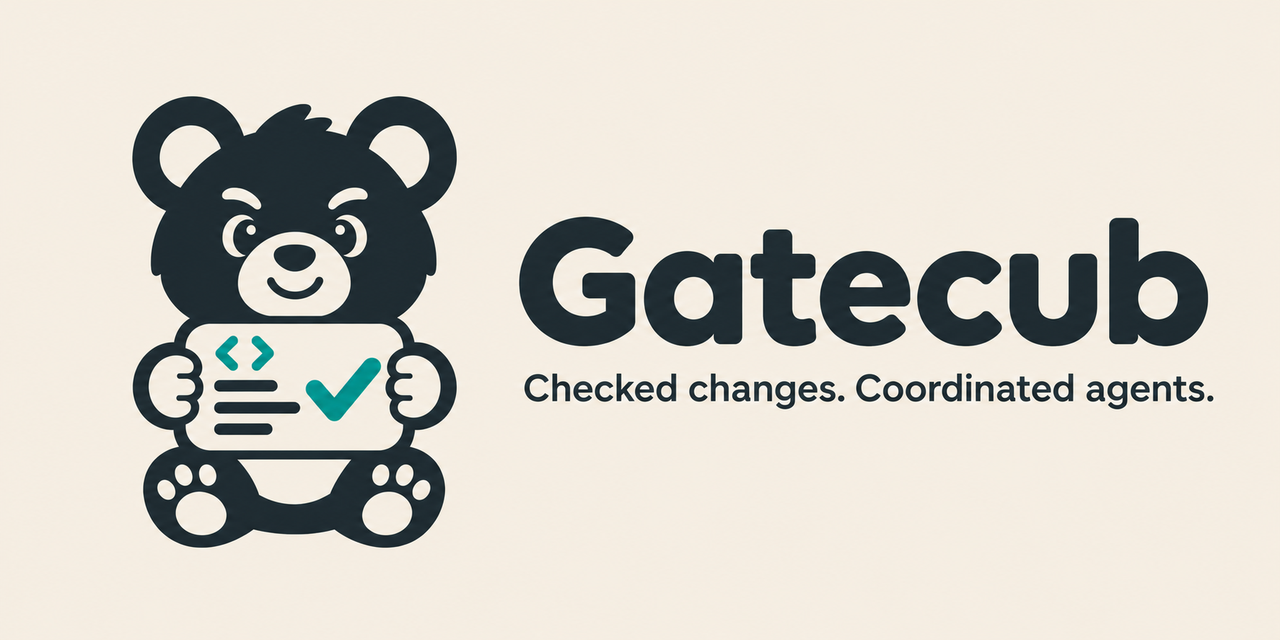
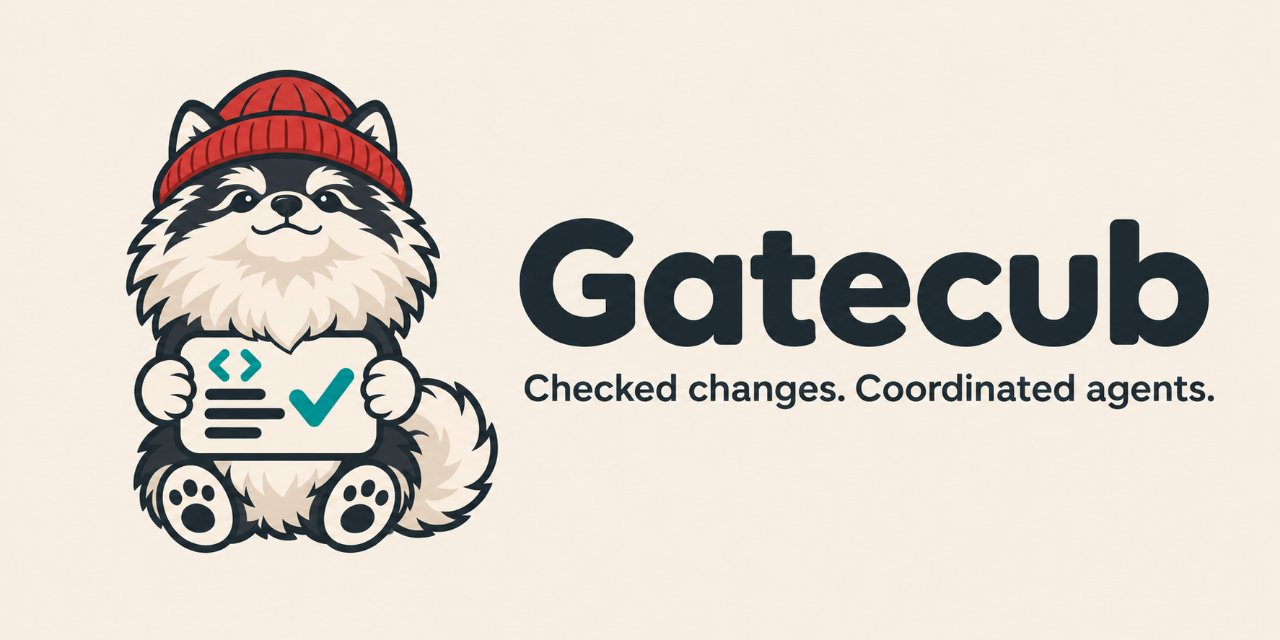
docs: use a Pomeranian mascot for Gatecub
Update the mascot, banner, alt text and brand provenance to the approved Pomeranian in a red knit beanie.

diff --git a/docs/brand/README.md b/docs/brand/README.md
@@ -1,74 +1,67 @@
 # Gatecub brand assets
 
-Gatecub is an alert, friendly bear cub holding a code-change card with a teal check. The mark represents checked changes and coordinated agents.
+Gatecub's mascot is a fluffy Pomeranian in a red knit beanie, holding a code-change card with a teal check. Its pointed ears, short dog muzzle, full neck ruff and curled tail make the dog recognizable; its calm, proud expression follows the user's reference.
 
 | Asset | Size | Background | Suggested use |
 | --- | --- | --- | --- |
-| [Mascot](gatecub-mascot.png) | 1254 × 1254; 726,960 bytes | Transparent RGBA | Avatar, documentation, project badge |
-| [Banner](gatecub-banner.png) | 1280 × 640; 607,726 bytes | Opaque warm cream | README and repository social preview |
+| [Mascot](gatecub-mascot.png) | 1254 × 1254; 923,432 bytes | Transparent RGBA | Avatar, documentation, project badge |
+| [Banner](gatecub-banner.png) | 1280 × 640; 586,883 bytes | Opaque warm cream | README and repository social preview |
 
-The banner reads **Gatecub** and **Checked changes. Coordinated agents.** Keep the original proportions and leave breathing room around the bear and text. Use the transparent mascot on a light surface with enough contrast for its charcoal outline. The banner supplies its own background.
+The banner reads **Gatecub** and **Checked changes. Coordinated agents.** Keep the original proportions and leave breathing room around the dog and text. Use the transparent mascot on a light surface with enough contrast for its charcoal outline. The banner supplies its own background.
 
 Suggested alt text:
 
-- Mascot: `Gatecub bear cub holding a code-change card with a teal check mark.`
-- Banner: `Gatecub. Checked changes. Coordinated agents. A bear cub holds a checked code-change card.`
+- Mascot: `Gatecub Pomeranian in a red knit beanie, holding a code-change card with a teal check mark.`
+- Banner: `Gatecub. Checked changes. Coordinated agents. A fluffy Pomeranian in a red beanie holds a checked code-change card.`
 
 ## Color direction
 
 | Color | Value | Role |
 | --- | --- | --- |
-| Charcoal | `#202A30` | Bear, outlines, wordmark and text |
-| Cream | `#F6F0E5` | Face, card, accents and banner background |
+| Charcoal | `#202A30` | Outlines, dark fur, eyes, nose, wordmark and text |
+| Cream | `#F6F0E5` | Light fur, paws, card and banner background |
 | Teal | `#169C92` | Check mark and code accent |
+| Red | `#C83D37` | Knit beanie, inspired by the user's reference |
 
-These are the design targets; the generated PNGs retain subtle shades and antialiased edges. Do not recolor or stretch the artwork. A check mark is part of the brand, not evidence that a particular change passed checks.
+These are the design targets; the generated PNGs retain subtle shades and antialiased edges. Keep the beanie as the red accent and the card check teal. Do not recolor or stretch the artwork.
 
 ## Creation and export
 
-Created on 2026-11-15 with the built-in `image_gen` tool, using a transparent generation for the mascot and the mascot as the banner's identity reference. The banner received one targeted flat-color edit with the same tool. No API fallback or hand-drawn replacement was used.
+Updated on 2026-11-15 with the built-in `image_gen` tool. The mascot was edited from the previous Gatecub mascot using the user's Pomeranian image as species and mood guidance. The matching banner was edited from the previous banner with the new Pomeranian mascot as its identity reference. All creative changes were made with `image_gen`; no API fallback or procedural drawing was used. The private input reference is not included in this repository.
 
-The mascot's generated 1254 × 1254 dimensions and alpha were preserved. The selected banner was resized from 1774 × 887 to 1280 × 640 with Lanczos resampling. Both files were re-encoded as losslessly optimized PNGs; no palette quantization or color substitution was applied. The exact prompts are recorded below for future revisions; a new generation will not necessarily reproduce identical pixels.
+The mascot's generated 1254 × 1254 dimensions and alpha were preserved. The selected banner was resized from 1774 × 887 to 1280 × 640 using the browser's high-quality image resampling. Both PNGs were then losslessly re-encoded with Go's PNG encoder at its best compression setting. No palette quantization or color substitution was applied. Both final files are under 1 MB.
+
+The exact edit prompts that produced the current artwork follow. A new generation will not necessarily reproduce identical pixels.
 
 <details>
-<summary>Mascot generation prompt</summary>
+<summary>Pomeranian mascot edit prompt</summary>
 
 ```text
-Use case: logo-brand.
-Asset type: square transparent PNG mascot for the developer tool Gatecub.
-Primary request: Create an original flat illustrated alert bear cub holding a code-change card with a teal check mark. The cub should feel attentive, capable, friendly, and compact, with upright rounded ears, a simple expressive face, and clearly visible paws gripping the card. The rectangular card shows a few short abstract code lines and one prominent check mark, with no readable words.
-Style: clean contemporary vector-like flat illustration, bold simple silhouette, economical geometric forms, crisp edges, no photorealism, no gradients, no shadows, no texture, no 3D.
-Color palette: charcoal #202A30 for cub body and outlines, warm cream #F6F0E5 for muzzle, inner ears, paws accents and code card, teal #169C92 for the check and a minimal accent. Use only these three solid colors plus transparent background and natural antialiasing.
-Composition: 1024 by 1024 square canvas, centered complete mascot, generous transparent padding on all sides, no part clipped; legible at small sizes.
-Constraints: true transparent background, no text, no logo from another brand, no clothing, no extra objects, no watermark. The bear must hold a code-change card, with a teal check clearly visible.
+Use case: precise-object-edit / logo-brand.
+Asset type: Gatecub developer-tool mascot, square transparent PNG.
+Input image 1 is the current mascot edit target. Input image 2 is the user's Pomeranian reference: use its fluffy dog face and ruff, small dark eyes, canine muzzle, calm proud expression, and red knit beanie as species and mood guidance. Do not reproduce the reference's photographic texture or dark background.
+Primary request: Replace the bear completely with an original, clearly recognizable Pomeranian dog. Give the dog a fluffy cream-and-charcoal spitz face, broad layered neck ruff, short pointed canine muzzle with a small black nose, and small pointed triangular ears partly tucked beneath a red knit beanie. The beanie has a folded ribbed cuff and a few simple knit lines. The expression is calm, capable, friendly and a little proud, inspired by the reference. There must be no round bear ears or bear face.
+Preserve the useful compact seated mascot composition: a complete small fluffy dog with visible front paws gripping a cream code-change card, little hind paws, and a curled fluffy tail where it fits naturally. The card has a few abstract short code lines, a small code-bracket symbol, and one prominent teal check mark; no readable words.
+Style: clean flat original brand illustration, crisp vector-like contours, simplified tufts of fur, economical geometric forms, legible silhouette at small sizes. No photorealism, no detailed fur rendering, no 3D, no scenery, no cast shadows, no watermark.
+Color direction: charcoal #202A30 for outlines, dark fur accents, eyes and nose; warm cream #F6F0E5 for the main fur, paws and code card; teal #169C92 for the check and code accent; tasteful red #C83D37 for the beanie. Natural antialiasing is fine.
+Composition: square canvas, full mascot centered, generous genuinely transparent padding on all four sides. The full beanie, fur, paws, card and tail stay inside the frame. Transparent background, no text. Keep the card and check visually clear.
 ```
 
 </details>
 
 <details>
-<summary>Banner generation prompt (mascot supplied as reference)</summary>
+<summary>Matching banner edit prompt</summary>
 
 ```text
-Use case: compositing / logo-brand.
-Asset type: repository brand banner for Gatecub, final landscape size 1280 by 640 pixels, 2:1 aspect ratio.
-Input image: the supplied Gatecub mascot is the identity reference. Preserve its original alert rounded bear cub, friendly face, body silhouette, cream paws, and code-change card with teal check. Reproduce the same mascot cleanly at smaller scale on the left side.
-Primary request: produce a finished minimal brand banner with the mascot on the left and the following exact text on the right:
-Gatecub
-Checked changes. Coordinated agents.
-Composition: 2:1 wide horizontal banner, complete mascot about 480 pixels tall, centered vertically in the left 40% of the canvas; right 60% contains a clear bold wordmark and the tagline on one line below it. Plenty of balanced negative space; all content comfortably inside a 64 pixel safe margin. Use a confident rounded geometric sans-serif for Gatecub, and a smaller clean sans-serif for the tagline. Main wordmark charcoal #202A30. Tagline charcoal #202A30. Teal #169C92 is restricted to the mascot's check and small existing accents.
-Background: perfectly flat, opaque, solid warm cream #F6F0E5 across the entire canvas, no texture, no gradient, no shadows.
-Style: crisp flat original illustration, brand consistency with supplied mascot.
-Text (verbatim, spelling and punctuation must be exact): "Gatecub" and "Checked changes. Coordinated agents."
-Constraints: only those two text elements; no added slogans, symbols, watermarks, borders, mockups, textures, gradients, or scenery. Keep the mascot recognizable and the code card and check readable. Exact deliverable size requested: 1280x640.
-```
-
-</details>
-
-<details>
-<summary>Banner refinement prompt (previous banner supplied as edit target)</summary>
-
-```text
-Edit the supplied Gatecub banner. Preserve the mascot identity, full composition, all positions, typography, wording, spelling and punctuation exactly. The only change is to remove every gradient, paper texture, shading, and color variation, producing a truly flat three-color illustration on a uniform solid background. Background must be exactly one even warm cream #F6F0E5, including all four corners and every empty region; absolutely no vignette, texture, paper grain, radial shading, or lighting effect. All charcoal shapes and both text elements should be solid #202A30; teal shapes solid #169C92; cream shapes solid #F6F0E5, apart from necessary edge antialiasing. Text must remain exactly 'Gatecub' and 'Checked changes. Coordinated agents.'. Export a 1280x640 opaque PNG, aspect ratio 2:1. Do not add, remove, crop, or redesign anything.
+Use case: precise-object-edit / logo-brand.
+Asset type: Gatecub repository banner, opaque warm-cream landscape PNG, 2:1 aspect ratio, final target 1280x640.
+Input image 1 is the current Gatecub banner edit target. Input image 2 is the approved new Pomeranian mascot identity reference.
+Primary request: replace only the bear mascot on the left with the exact Pomeranian identity from input image 2: fluffy cream-and-charcoal face and neck ruff, small pointed dog ears, short canine muzzle, calm proud friendly expression, red knit beanie with folded ribbed cuff, front paws holding the cream code-change card with teal code brackets and check, little hind paws, and curled fluffy tail. Keep the complete dog inside the frame. The two assets must unmistakably depict the same mascot.
+Preserve the current banner's typography, wordmark, tagline, spelling, punctuation, spacing, balanced left-mascot/right-text composition, and warm cream background. Scale the new mascot to fit comfortably within the existing left area with breathing room; its ears, beanie and tail must not touch the wordmark or the frame.
+Text (verbatim, exactly these two elements): "Gatecub" and "Checked changes. Coordinated agents."
+Style: crisp clean flat brand illustration matching input image 2, simplified fur tufts, no photorealism, no 3D, no extra symbols or scenery. Keep the teal check visually prominent.
+Color direction: charcoal #202A30 for text, outlines and dark fur; warm cream #F6F0E5 for the background, light fur and card; teal #169C92 for card accents; red #C83D37 for the beanie. The background should read as a plain even warm cream, with no added texture, gradient or shadow.
+Constraints: no remaining bear features, no round ears, no new words, no altered lettering, no watermark. Final composition remains wide 2:1 with all content safely inside the edges. Target output 1280 by 640 pixels.
 ```
 
 </details>

diff --git a/CHANGELOG.md b/CHANGELOG.md
@@ -13,7 +13,7 @@ The format is based on [Keep a Changelog](https://keepachangelog.com/en/1.1.0/).
 
 ### Added
 
-- A bear-cub mascot and matching README banner introduce Gatecub's [visual identity](docs/brand/README.md).
+- A Pomeranian mascot and matching README banner introduce Gatecub's [visual identity](docs/brand/README.md).
 - Three diagrams: the three parts of `gatecub`, how the gate decides about a commit or a push, and the seven roles on the two paths
   of a task. The README, [hooks](docs/hooks.md) and [the task workflow](docs/workflow.md) show them.
 

diff --git a/README.md b/README.md
@@ -2,7 +2,7 @@
 
 # Gatecub
 
-<img src="docs/brand/gatecub-banner.png" alt="Gatecub: an alert bear cub holds a checked code-change card. Checked changes. Coordinated agents." width="100%">
+<img src="docs/brand/gatecub-banner.png" alt="Gatecub: a fluffy Pomeranian in a red beanie holds a checked code-change card. Checked changes. Coordinated agents." width="100%">
 
 **Checked changes. Coordinated agents.**
 
